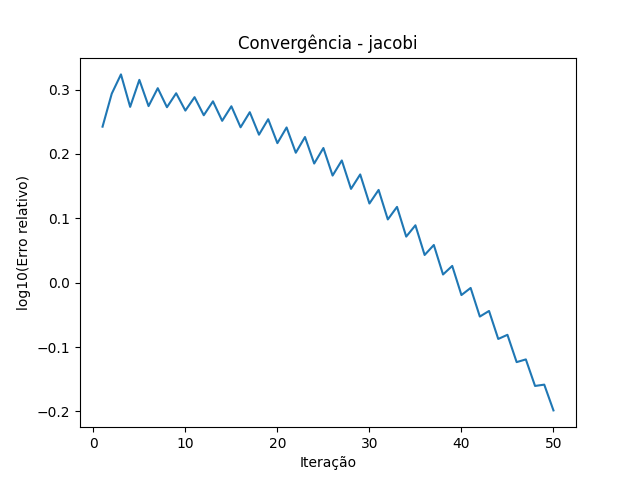
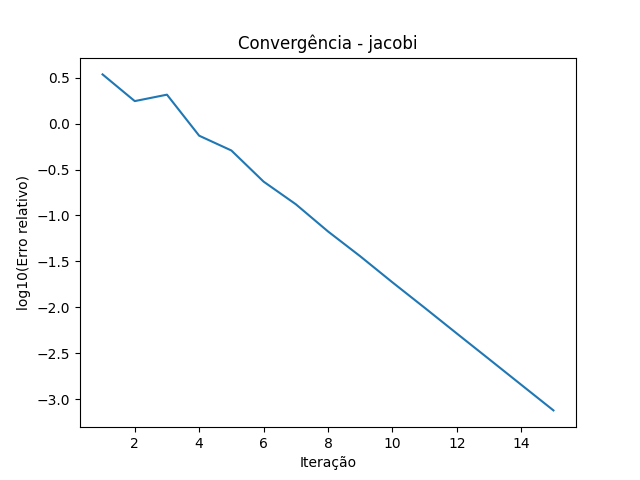
Adicionei uma função de gerar e verificar matriz diagonal dominante e retirei o Gauss-Seidel com biblioteca

diff --git a/testes.py b/testes.py
@@ -4,7 +4,7 @@ from math import log10
 import matplotlib.pyplot as plt
 
 from Dependencias.results import Results
-from Dependencias.utilidades import erro_solucao
+from Dependencias.utilidades import erro_solucao, check_matriz_diagonal_dominante
 from sistema_linear import SistemaLinear
 
 class TestesUmaMatriz:
@@ -68,6 +68,9 @@ class TestesUmaMatriz:
         r = Results()
         s = self.sistema()
 
+        r.write(f'{check_matriz_diagonal_dominante(self.A)}')
+        r.skipline()
+        
         inicio = time.time()
         res = getattr(s, metodo)(self.t, self.o) # Chamando o método
         final = time.time()
@@ -106,24 +109,6 @@ class TestesUmaMatriz:
         plt.savefig(nome_grafico)
         plt.close()
 
-    def teste_metodo_iterativo_biblioteca(self, metodo: str, caminho_saida: str):
-        r = Results()
-        s = self.sistema()
-
-        inicio = time.time()
-        getattr(s, metodo)(self.t, self.o)
-        final = time.time()
-
-        x = s.x
-        r.write('Solução x:')
-        r.write(x)
-
-        r.skipline()
-        r.write(f'Erro da solução (|Ax - b|): {erro_solucao(self.A, x, self.b)}')
-        r.write(f'Tempo de execução: {final - inicio}')
-
-        r.generate_file(caminho_saida)
-
     def executar(self):
         pasta = self.caminho_saida
 
@@ -137,5 +122,3 @@ class TestesUmaMatriz:
 
         self.teste_metodo_direto('eliminacao_gaussiana_numpy', f'{pasta}/Bibliotecas/eliminacao_gaussiana.txt')
         self.teste_metodo_direto('fatoracao_lu_scipy', f'{pasta}/Bibliotecas/fatoracao_lu.txt')
-
-        self.teste_metodo_iterativo_biblioteca('gauss_seidel_scipy', f'{pasta}/Bibliotecas/gauss_seidel.txt')

diff --git a/Dependencias/utilidades.py b/Dependencias/utilidades.py
@@ -45,3 +45,22 @@ def erro_solucao(A: list[list], x: list, b: list):
     erro = sub_vetor(b, Ax)
     
     return modulo_vetor(erro)
+
+def gera_matriz_diagonal_dominante(A:list[list]):
+    for i in range(len(A)):
+        soma = 0
+        for j in range(len(A[0])):
+            if i != j:
+                soma += abs(A[i][j])
+        A[i][i] = abs(A[i][i]) + soma
+    return A
+
+def check_matriz_diagonal_dominante(A:list[list]):
+    for i in range(len(A)):
+        soma = 0
+        for j in range(len(A[0])):
+            if i != j:
+                soma += abs(A[i][j])
+        if abs(A[i][i]) < soma:
+            return "Não é uma matriz diagonal dominante"
+    return "A matriz é diagonal dominante"

diff --git a/sistema_linear.py b/sistema_linear.py
@@ -184,13 +184,3 @@ class SistemaLinear:
             return
         
         return self.gauss_seidel(t, o, n) # Vai retornar None ou a mensagem de erro
-    
-    def gauss_seidel_scipy(self, t: float, o: int, n: int = 0):
-        'Altera x, resolvendo o sistema pelo método de Gauss-Seidel usando a biblioteca scipy.'
-        b = self.b
-
-        A = np.array(self.A, dtype=float)
-        B = np.array(b, dtype=float)
-        x, info = gmres(A, b=B, rtol = t, maxiter=o)
-        self.x = x
-        return

diff --git a/main.py b/main.py
@@ -1,6 +1,7 @@
 import numpy as np
 
 from testes import TestesUmaMatriz
+from Dependencias.utilidades import gera_matriz_diagonal_dominante
 
 n = 3
 x_inicial = [1]*n
@@ -8,7 +9,7 @@ t = 0.001
 o = 50
 
 t = TestesUmaMatriz(
-    np.random.rand(n, n).tolist(),
+    gera_matriz_diagonal_dominante(np.random.rand(n, n).tolist()),
     np.random.rand(n).tolist(),
     t,
     o,
